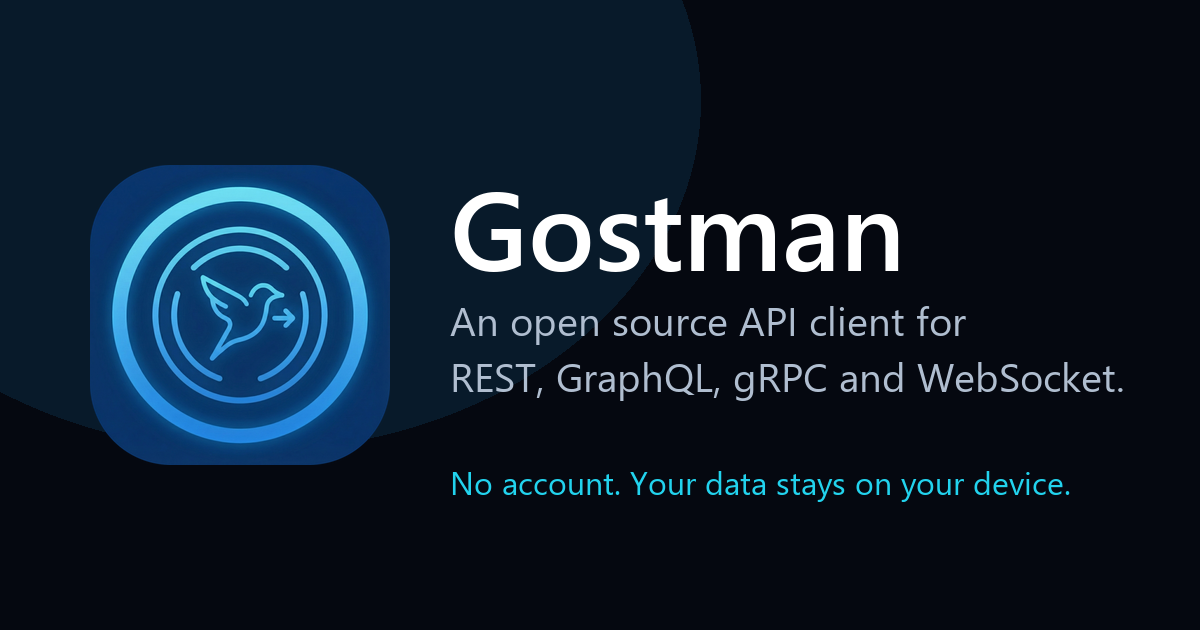
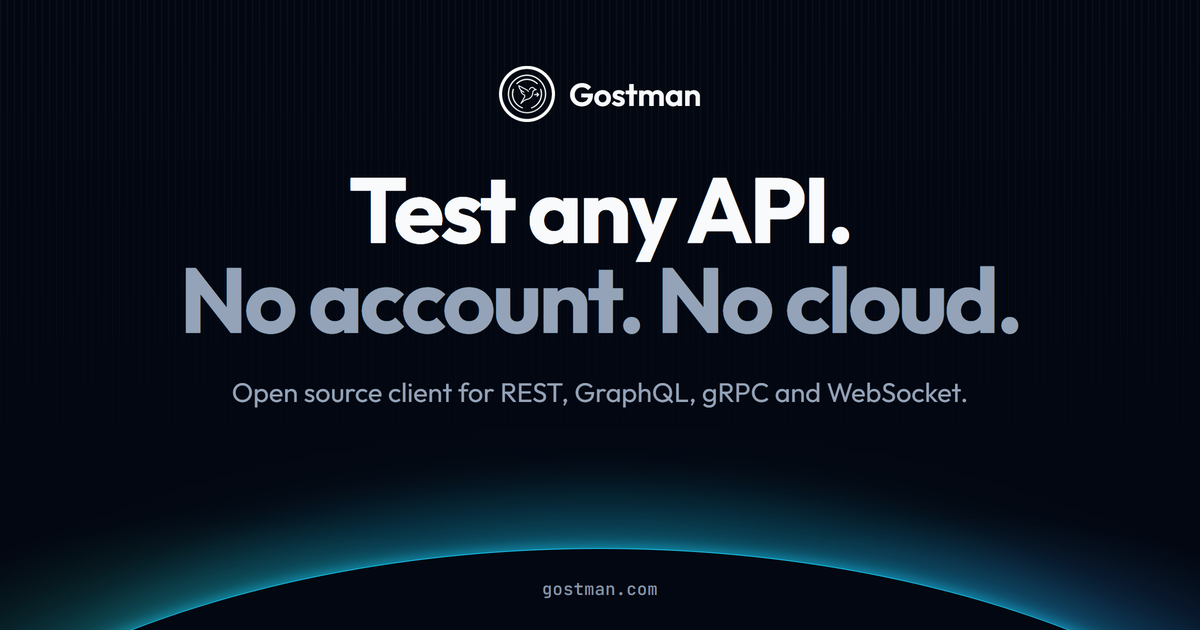
feat(landing): social preview in the landing page's style
The card uses the hero's headline, type, stripes and horizon glow, with the logo as a plain white mark instead of the blue tile. It is published as social.png so link previews fetch it fresh instead of the cached og.png.

diff --git a/gostman-gui/frontend/index-web.html b/gostman-gui/frontend/index-web.html
@@ -16,7 +16,7 @@
     <meta property="og:site_name" content="Gostman" />
     <meta property="og:title" content="Gostman — API client for REST, GraphQL, gRPC and WebSocket" />
     <meta property="og:description" content="Free, open source API client for the browser and the desktop. No account and no paid tier: tests, a CI command line, a mock server and team sharing are all included." />
-    <meta property="og:image" content="__SITE_URL__/og.png" />
+    <meta property="og:image" content="__SITE_URL__/social.png" />
     <meta property="og:image:width" content="1200" />
     <meta property="og:image:height" content="630" />
     <meta property="og:image:alt" content="Gostman, an open source API client" />
@@ -27,7 +27,7 @@
     <meta name="twitter:card" content="summary_large_image" />
     <meta name="twitter:title" content="Gostman — API client for REST, GraphQL, gRPC and WebSocket" />
     <meta name="twitter:description" content="Free, open source API client for the browser and the desktop. No account and no paid tier: tests, a CI command line, a mock server and team sharing are all included." />
-    <meta name="twitter:image" content="__SITE_URL__/og.png" />
+    <meta name="twitter:image" content="__SITE_URL__/social.png" />
     <meta name="twitter:image:alt" content="Gostman, an open source API client" />
 
     <script type="application/ld+json">
@@ -40,7 +40,7 @@
       "applicationCategory": "DeveloperApplication",
       "operatingSystem": "Windows, macOS, Linux, Web",
       "license": "https://opensource.org/licenses/MIT",
-      "image": "__SITE_URL__/og.png",
+      "image": "__SITE_URL__/social.png",
       "downloadUrl": "https://github.com/kunalgoesbyken/gostman/releases/latest",
       "codeRepository": "https://github.com/kunalgoesbyken/gostman",
       "sameAs": ["https://github.com/kunalgoesbyken/gostman"],

diff --git a/gostman-gui/frontend/src/guides/render.jsx b/gostman-gui/frontend/src/guides/render.jsx
@@ -30,7 +30,7 @@ function PageDocument({ title, description, url, siteUrl, stylesheets, structure
         <meta property="og:description" content={description} />
         <meta property="og:url" content={url} />
         <meta property="og:type" content="article" />
-        <meta property="og:image" content={`${siteUrl}/og.png`} />
+        <meta property="og:image" content={`${siteUrl}/social.png`} />
         <meta name="twitter:card" content="summary_large_image" />
         {stylesheets.map((href) => (
           <link key={href} rel="stylesheet" href={href} />
